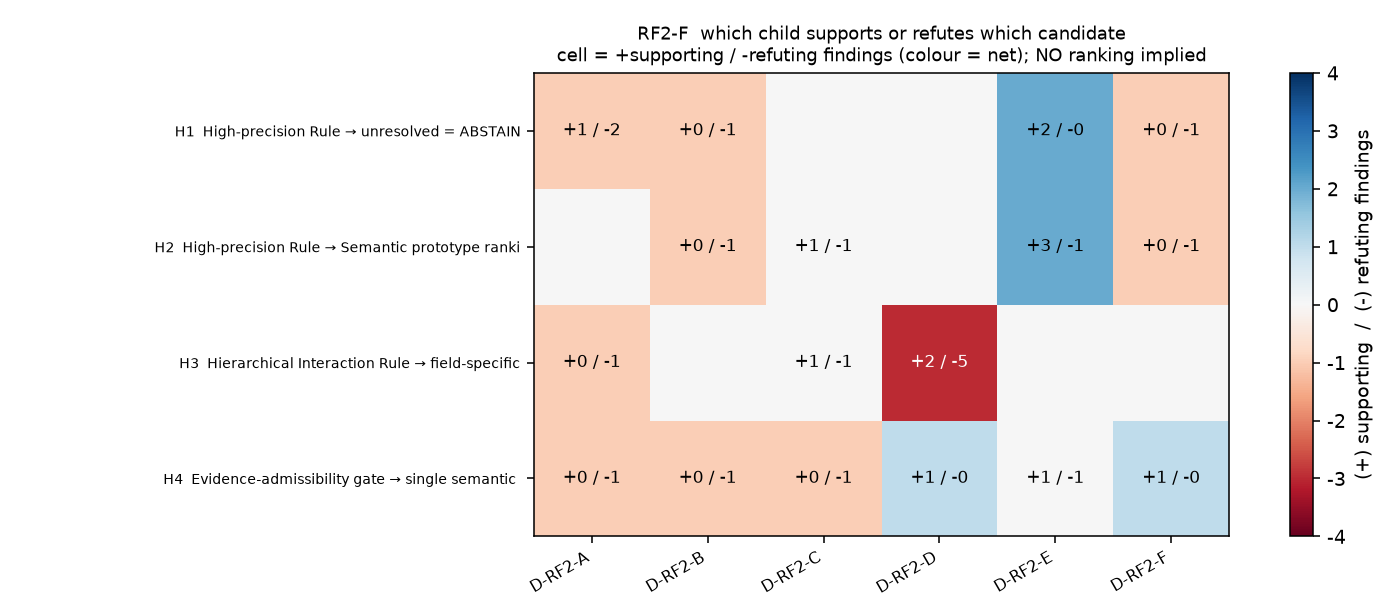
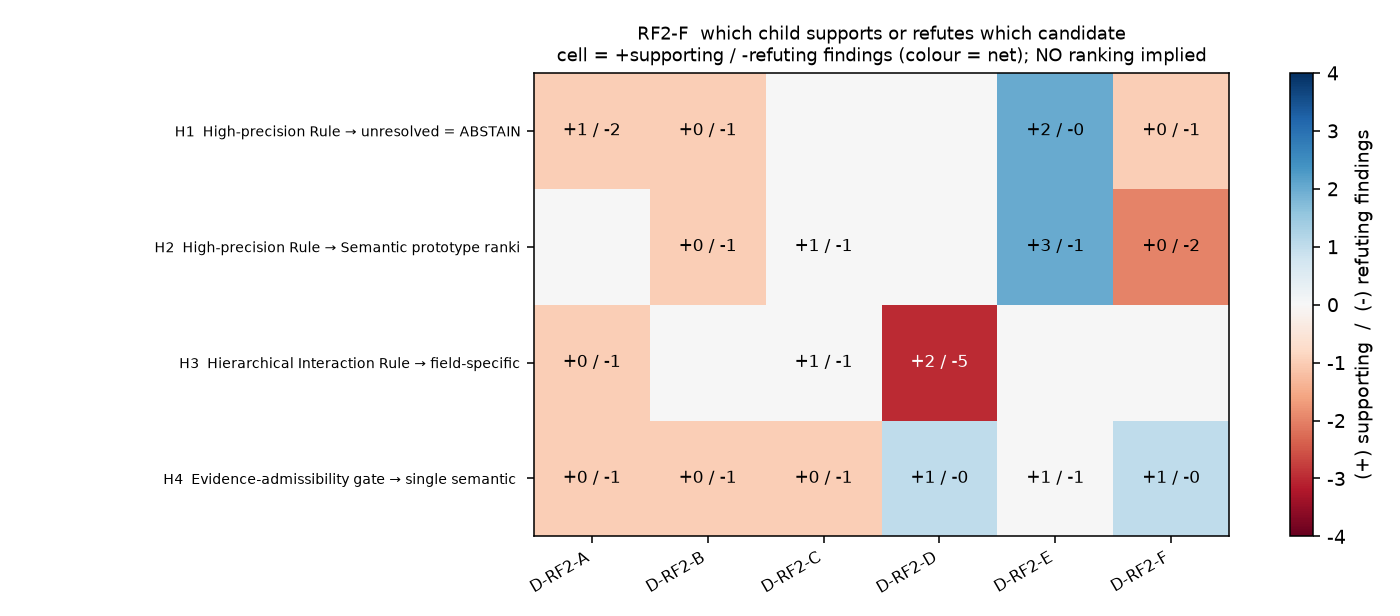
research(RQ-D13c): 내 RQ-D1 F4 헤드라인이 부분적으로 틀렸다 — 3건은 조용히 사라지지 않았다
RQ-D11 이 '손실은 원장->mart 사이' 라고 좁혔고, 이제 exact SHA 코드에서 지점을 찾았다.

**build_real_marts.py @82f631f**
  L48  `l0 = detail.get('l0') or {}` 다음 `if l0:` — **else 절이 없다.**
       l0 블록이 없으면 landing row 를 만들지 않는다
  L94  `if detail.get('task_observation_id') or detail.get('endpoint_status'):` — **else 절이 없다.**
       둘 다 없으면 task row 를 만들지 않는다 (guard 차단 25건이 여기 해당)
  L140 `elif outcome == 'SKIPPED_RETRY_EXHAUSTED': skipped += 1`
       — **같은 스크립트가 이 outcome 을 알고 세고 있다**

**그래서 내 RQ-D1 F4 는 부분적으로 틀렸다.**
나는 '3 target 이 mart 에서 조용히 사라지고 NO_EVIDENCE 행조차 없다' 고 썼다.
실제로는 REAL_RUN_SUMMARY.collection_markers 에 **정확히 기록돼 있다**:
  analysis_sample.archetype_unknown_by_outcome.SKIPPED_RETRY_EXHAUSTED = 3
  by_source skipped_retry_exhausted_n = [0, 1, 2, 0]  (w02 1 · w03 2)
RQ-D11 의 원장 집계와 정확히 일치한다.

**더 좁은 참인 문장**: 3 target 은 **fact_landing_observation 에만** 행이 없다.
mart 전체에서 사라진 것이 아니다.

빌더는 outcome 을 모르지 않는다. 요약에는 기록하고 fact table 에는 안 넣는다.
fact table 이 observation 키 기반이고 observation 이 없으므로 **설계상 일관된 선택**이다.
문제는 '조용한 누락' 이 아니라 **두 산출물의 분모가 다르다** 는 것이다 —
fact_landing_observation 만 읽는 소비자는 56 을 보고 요약은 59 를 안다.
(fact_task_entry 31 과 landing 56 의 차이 25 도 같은 구조다.)

production implication 도 바뀐다. 이전 제안('mart 에 NO_EVIDENCE 행을 남길 것')은
빌더를 '고쳐야 할 결함' 으로 전제했는데 그렇지 않다. 남는 것은
**두 분모가 다르고 그 차이가 문서화되지 않았다** 는 사실이며, 어느 분모가 옳은지는
분석 단위 정의 문제로 A 의 권한이다.

이번 정정의 경로가 의미 있다: RQ-D1(관측) -> RQ-D11(층 좁힘) -> RQ-D13c(코드 확인).
세 단계를 거치며 '조용한 손실' 이라는 최초 서술이 '분모 불일치' 로 정확해졌다.
헤드라인을 세게 쓴 대가를 내가 치렀다.
[…]

Changed region(s): [[0.7679, 0.3084, 0.8907, 0.4935]]

diff --git a/research/landing_accessibility/research_d/tools/rf2_f_cascade_synthesis.py b/research/landing_accessibility/research_d/tools/rf2_f_cascade_synthesis.py
@@ -443,7 +443,30 @@ def target_property_sets(rows):
         }
 
     sem_high = [r for r in und if r["E_sem_margin"] >= sorted(x["E_sem_margin"] for x in rows)[22]]
+    # E 의 함정: semantic 이 가장 확신하는 미확정 target 이 곧 표면부재 target 인가?
+    sh = {r["wtg"] for r in sem_high}
+    pa = {r["wtg"] for r in principled}
+    co = {r["wtg"] for r in capture_only}
+    trap = {
+        "question": ("rule 이 전부 실패했는데 semantic margin 이 높은 target 은 "
+                     "semantic 을 더해야 하는 target 인가, 아니면 브랜드면인가?"),
+        "n_semantic_confident_but_no_rule_fires": len(sh),
+        "of_which_surface_absent": len(sh & pa),
+        "of_which_capture_defect_only": len(sh & co),
+        "of_which_genuinely_definition_ambiguous": len(sh - pa - co),
+        "surface_absent_services": sorted(rows[i]["service"] for i in range(len(rows))
+                                          if rows[i]["wtg"] in (sh & pa)),
+        "genuine_services": sorted(rows[i]["service"] for i in range(len(rows))
+                                   if rows[i]["wtg"] in (sh - pa - co)),
+        "reading": ("**이것이 이 종합에서 가장 불편한 관측이다.** semantic 이 가장 확신하는 미확정 target 의 "
+                    "대다수가 표면부재(브랜드면·앱설치면·미렌더) target 이다. E 가 이미 경고한 것과 같다 — "
+                    "브랜드면의 텍스트는 그 서비스의 **업종**을 강하게 말해 주므로 semantic 이 잘 맞는데, "
+                    "그것은 대표기능을 식별한 것이 아니다(D-FACT-01). "
+                    "따라서 '규칙이 실패한 곳에 semantic 을 붙이면 coverage 가 는다' 는 처방은 "
+                    "**정확히 붙이면 안 되는 곳에 붙는다.**"),
+    }
     return {
+        "semantic_confidence_trap": trap,
         "deterministically_identifiable_union": describe(det_any, "적어도 한 rule 구현이 유일 후보를 낸 target"),
         "undetermined_by_every_rule_implementation": describe(und, "세 rule 구현 모두 확정 실패"),
         "needs_semantic_evidence": describe(
@@ -624,6 +647,11 @@ def build_candidates(rows, agg, curves, leak, sem_gate):
             {"child": "D-RF2-B", "evidence": ("prior 를 되찾는 신호의 상당 부분이 페이지 규모 축일 수 있다 — "
                                               "16 feature 의 제1성분(33% 분산)이 규모이고 상위 feature "
                                               "`accessible_name_richness`(MI 0.264)는 domain 의미가 없는 구조량이다.")},
+            {"child": "D-RF2-F", "evidence": (
+                "**semantic confidence trap.** 규칙이 전부 실패했는데 semantic margin 이 높은 14건 중 "
+                "10건이 표면부재(브랜드면·앱설치면·미렌더) target 이다. 즉 이 후보의 2단계가 열어 주는 "
+                "coverage 는 **정확히 열면 안 되는 곳에서** 열린다 — 브랜드면 텍스트가 업종을 강하게 "
+                "말해 주기 때문이지 대표기능을 드러내기 때문이 아니다.")},
         ],
         "observed_coverage_in_this_cohort": {
             "rule_stage_only": {"n": A_det, "coverage": round(A_det / n, 4)},
@@ -1205,6 +1233,16 @@ def synthesis_answers(rows, mult, props, curves, leak):
             "where_semantic_does_not_help": "T03_MULTI_STRONG_CANDIDATE (n=6): rule 0.50 → semantic 0.67 불일치 (악화)",
             "where_semantic_is_misleading": ("T05_GENERIC_BRAND_LANDING — semantic 이 잘 맞지만 그건 업종을 맞힌 것이다. "
                                              "E: 표면부재 유형을 먼저 abstain 시키면 같은 coverage 에서 지표가 오히려 낮아진다."),
+            "semantic_confidence_trap": props["semantic_confidence_trap"],
+            "corrected_answer": (
+                "위 trap 을 반영하면 Q3 의 답은 좁아진다. rule 이 전부 실패했는데 semantic margin 이 높은 "
+                f"{props['semantic_confidence_trap']['n_semantic_confident_but_no_rule_fires']}건 중 "
+                f"{props['semantic_confidence_trap']['of_which_surface_absent']}건이 **표면부재 target** 이고 "
+                f"진짜로 정의상 애매해서 semantic 이 필요한 것은 "
+                f"{props['semantic_confidence_trap']['of_which_genuinely_definition_ambiguous']}건뿐이다"
+                f"({props['semantic_confidence_trap']['genuine_services']}). "
+                "**즉 'semantic evidence 를 더해야 하는 target' 은 이 코호트에서 극소수다.** "
+                "semantic 이 열어 주는 coverage 의 대부분은 대표기능이 아니라 업종을 읽어서 열린다."),
         },
         "Q4_principled_abstain": {
             "count_lower_bound": props["principled_abstain_surface_absent"]["n"],
@@ -1258,7 +1296,10 @@ def smallest_sufficient(rows, curves, props):
             "그리고 identity 로 좁힐수록 C 가 경고한 순환 — title/url 이 브랜드를 읽고 브랜드→업종→archetype 을 "
             "되짚는 경로 — 이 강해진다. C 의 브랜드 마스킹에서 `url_tokens` 0.361→0.138, `title` 0.559→0.357 이다. "
             "**따라서 최소 충분구조는 '가장 작다'와 '가장 순환적이다'가 같은 방향이다.** "
-            "독립 label 없이 이 구조를 채택하면 업종 분류기를 대표기능 detector 라고 부르게 된다."),
+            "독립 label 없이 이 구조를 채택하면 업종 분류기를 대표기능 detector 라고 부르게 된다. "
+            "더 구체적으로: 규칙이 전부 실패했는데 semantic 이 확신하는 14건 중 10건이 표면부재 target 이다"
+            "(`synthesis_questions.Q3...semantic_confidence_trap`). semantic 단계가 벌어들이는 coverage 의 "
+            "상당 부분이 **대표 기능면이 아닌 페이지에서** 나온다."),
         "minimum_viable_stack": [
             {"stage": 1, "name": "Stage-0 renderability", "kind": "deterministic",
              "why": "SSOT §2 가 이미 확정을 금지한다. 이 코호트 56 중 5건이 여기서 걸린다.",
@@ -1297,6 +1338,16 @@ def counterexamples(rows, mult):
                         "QUERY 로 닫았는데 prior 는 ITEM_DETAIL 이다. 합의는 타당성이 아니라 "
                         "'랜딩에서 검색창이 가장 완결된 affordance' 라는 같은 편향의 공유일 수 있다."),
         })
+    out.append({
+        "kind": "이 종합 자신의 결론에 대한 반례 — semantic-only 가 이기는 이유가 나쁜 이유다",
+        "detail": ("D-RF2-F: 규칙이 전부 실패했는데 semantic margin 이 높은 14건 중 10건이 표면부재 target"
+                   "(Chrome · GS25 · NH스마트뱅킹 · NH콕뱅크 · emart24 · 디바이스 케어 · 롯데하이마트 · "
+                   "마켓컬리 · 신한 SOL뱅크 · 캐시워크)이다."),
+        "reading": ("§'가장 작은 충분구조' 가 semantic-only 로 기운 근거는 coverage×prior_agreement 곡선인데, "
+                    "그 곡선이 좋아지는 구간의 상당 부분이 브랜드면이다. "
+                    "**이 반례는 이 문서가 semantic-only 를 추천하지 않는 이유이기도 하다** — "
+                    "D 는 후보를 제시하고 대가를 적을 뿐 순위를 매기지 않는다."),
+    })
     out.append({
         "kind": "semantic 이 규칙보다 항상 나은 것은 아니다",
         "detail": "D-RF2-E: T03_MULTI_STRONG_CANDIDATE 6건에서 semantic 불일치 0.67 > rule 0.50",
